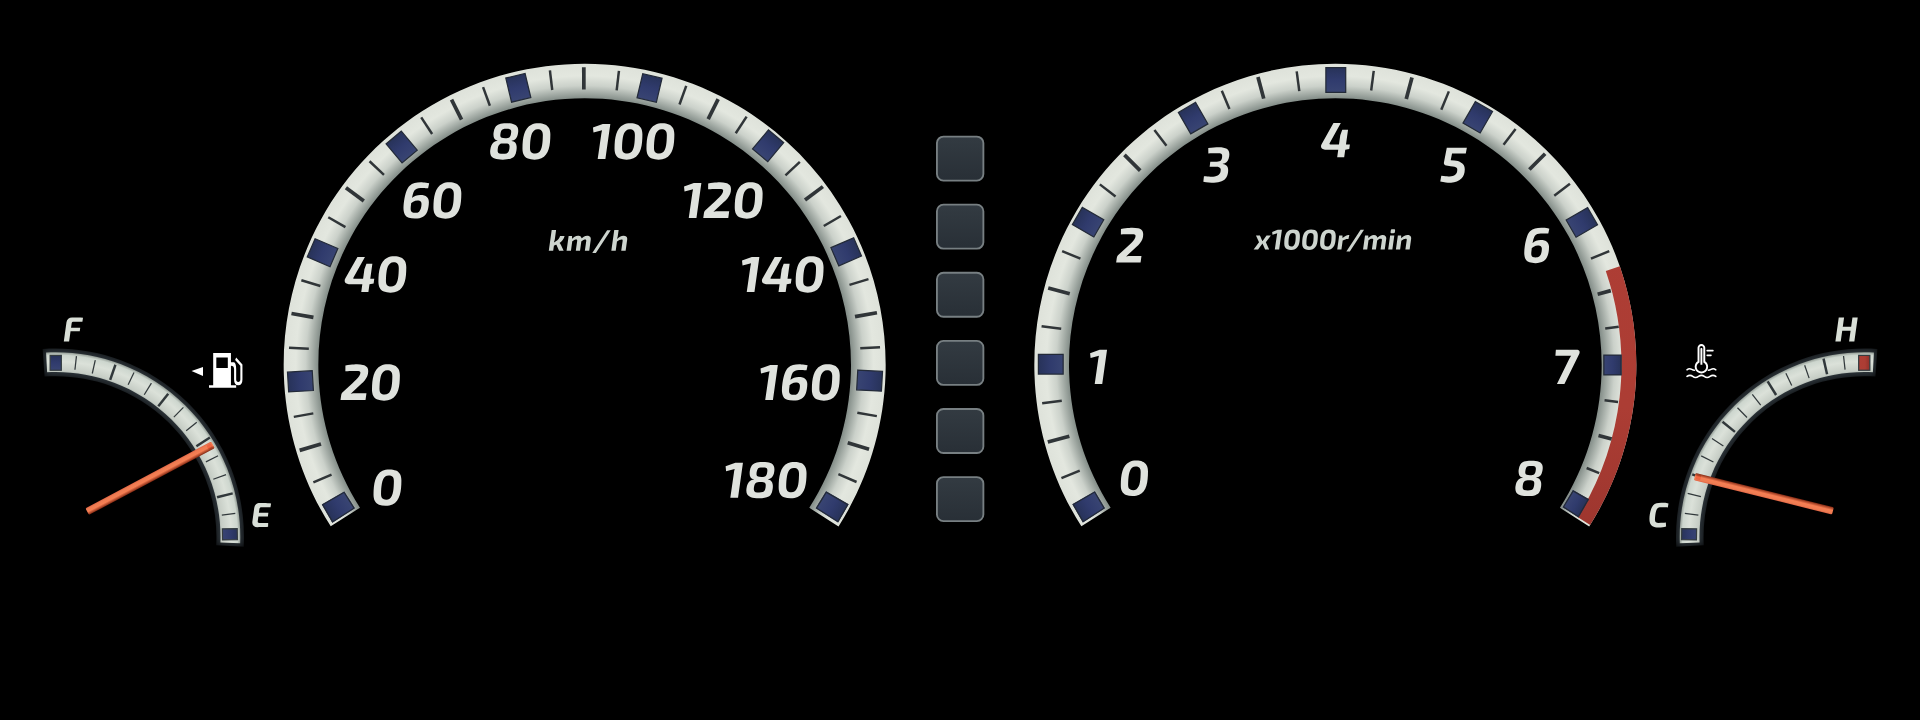
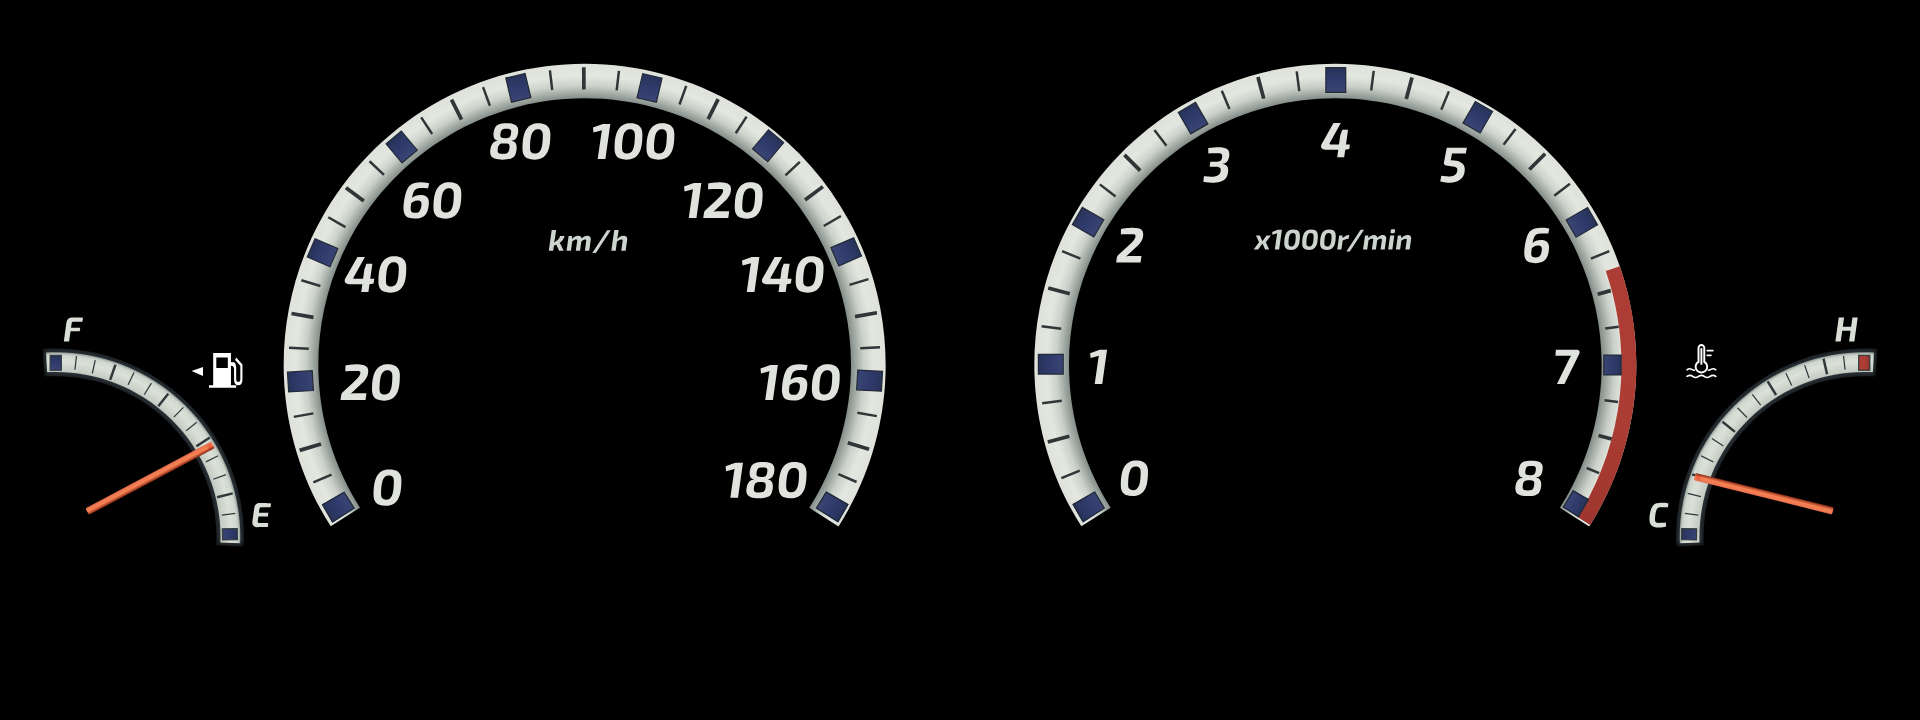
dsh: Gaia — видна только активная передача: плашки карточек вырезаны из фона, QML рисует окантовку и букву

Changed region(s): [[0.4688, 0.1833, 0.5312, 0.7333]]

diff --git a/Dashboard/GaiaSkin.qml b/Dashboard/GaiaSkin.qml
@@ -87,7 +87,9 @@ Item {
     readonly property real lampOnOpacity: 1.0
     readonly property real lampOffOpacity: 0.0
     readonly property real gearOnOpacity: 1.0
-    readonly property real gearOffOpacity: 0.16
+    // Передачи видны только активной (просьба заказчика): подсвечиваются
+    // окантовка карточки и буква, остальные карточки остаются тёмными.
+    readonly property real gearOffOpacity: 0.0
     readonly property real arrowOffOpacity: 0.0
 
     // ---- геометрия из макета ----
@@ -324,8 +326,25 @@ Item {
     }
 
     // ======================= КОЛОНКА ПЕРЕДАЧ =======================
-    // Шесть карточек P R N D 2 L сверху вниз. Карточки — в фоне, здесь
-    // только буквы: активная светится, остальные еле видны.
+    // Шесть карточек P R N D 2 L сверху вниз. Плашки карточек — в фоне,
+    // здесь поверх них: окантовка активной карточки и её буква.
+    // Геометрия карточки из макета: x 936.9, 46.5 × 44, радиус 6.5,
+    // обводка 1.86 (tools/gaia_scale.py печатает ту же колонку).
+    readonly property var gearOrder: ["P", "R", "N", "D", "2", "L"]
+    readonly property int activeGearIndex:
+        Math.max(0, root.gearOrder.indexOf(root.activeGear()))
+
+    Rectangle {
+        x: 936.9
+        y: root.gearFirstRowY + root.activeGearIndex * root.gearRowStep
+        width: 46.5
+        height: 44
+        radius: 6.5
+        color: "transparent"
+        border.width: 1.9
+        border.color: "#DFE2DD"
+        Behavior on y { NumberAnimation { duration: 160; easing.type: Easing.OutCubic } }
+    }
     Repeater {
         model: ["P", "R", "N", "D", "2", "L"]
 

diff --git a/tools/gaia_bake.py b/tools/gaia_bake.py
@@ -46,6 +46,10 @@ ZONE_ARROW_R = (1008.0, 42.0, 1096.0, 114.0)
 # фона она вырезается, а рисует её QML.
 ZONE_HIGHBEAM = (932.0, 55.0, 990.0, 106.0)
 ZONE_GEAR = (938.0, 128.0, 992.0, 532.0)     # буквы P R N D 2 L
+# Плашки карточек передач тоже вырезаются: неактивные передачи не должны
+# быть видны вовсе (просьба заказчика), поэтому единственную видимую
+# карточку — активную — рисует QML окантовкой и буквой.
+ZONE_GEAR_CARDS = (930.0, 130.0, 990.0, 528.0)
 ZONE_LAMPS = (300.0, 552.0, 1640.0, 646.0)   # ряд ламп внизу
 NEEDLE_X = (575.0, 591.0)                    # колонна стрелки левого колодца
 NEEDLE_X2 = (1329.0, 1345.0)
@@ -266,6 +270,8 @@ def main():
             who = "кружок в основании стрелки топлива/температуры"
         elif inside(bb, ZONE_GEAR):
             who = "буква передачи"
+        elif inside(bb, ZONE_GEAR_CARDS):
+            who = "плашка карточки передачи"
         elif inside(bb, ZONE_LAMPS):
             who = "иконка лампы"
         if who:

diff --git a/tools/gaia_scale.py b/tools/gaia_scale.py
@@ -86,5 +86,29 @@ def main():
         print()
 
 
+def gear_cards():
+    """Геометрия карточек передач — печатается для сверки с QML."""
+    root = ET.parse(SVG).getroot()
+    host = root
+    for ch in root:
+        if "clip0" in (ch.get("clip-path") or ""):
+            host = ch
+            break
+    print("=== карточки передач (P R N D 2 L сверху вниз)")
+    for ch in list(host):
+        if ch.tag.replace(GB.NS, "") != "rect":
+            continue
+        bb, _ = GB.bbox_tree(ch, (1, 0, 0, 1, 0, 0))
+        if not bb:
+            continue
+        w, h = bb[2] - bb[0], bb[3] - bb[1]
+        if 40 < w < 55 and 40 < h < 50 and 930 < bb[0] < 990:
+            print(f"  x={bb[0]:.1f} y={bb[1]:.1f} {w:.1f}x{h:.1f} "
+                  f"rx={ch.get('rx')} stroke={ch.get('stroke')} "
+                  f"sw={ch.get('stroke-width')}")
+
+
 if __name__ == "__main__":
     main()
+    print()
+    gear_cards()

diff --git a/docs/skin.md b/docs/skin.md
@@ -98,6 +98,11 @@ python3 tools/gaia_text.py     # что написано на шкалах (OCR 
   Экран объявлен в QML **до стрелок**, поэтому стрелка проходит поверх
   плашки (просьба заказчика), а не наоборот.
 
+**Колонка передач**: видна только активная. Плашки карточек вырезаны из
+фона (`ZONE_GEAR_CARDS` в tools/gaia_bake.py), а QML рисует активную
+карточку окантовкой (46.5 × 44, радиус 6.5, обводка 1.9, как в макете)
+и её буквой; неактивные не видны вовсе.
+
 **Что уже работает:** стрелки (скорость и обороты) — с пружинным
 сглаживанием, те же параметры, что в классике и Genesis (`SpringAnimation`
 spring 2.0 / damping 0.2 / mass 1.0; без него стрелка дёргается по кадрам
